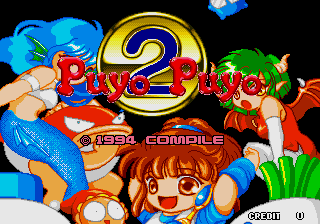
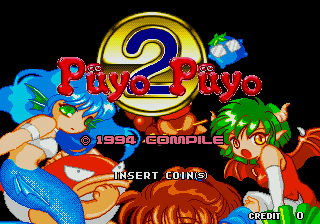
Title: the bouncing handakuten puyos are back, over the u
The three handakuten circles of ぷよぷよ (frames of a small puyo that
falls in and wobbles) had been pointed at empty tiles. Their original
tiles are now copied after the letters and the circles land over the u
of each "Pu" ("Püyo"), as suggested by thomasbender.

New CRCs: pp2e-17241.ic32 8e025713, pp2e-17240.ic31 38eb7703.

Claude-Session: https://claude.ai/code/session_01MEgow1uRCv8pxMErKhmoHZ

diff --git a/tools/logo.py b/tools/logo.py
@@ -8,7 +8,10 @@ tiles are stream TILES (VRAM tile 0x4e0 on).
 
 ぷ becomes "Pu" and よ "yo" (assets/gfx/logo_puyo.png, 112 x 48: the logo of
 assets/puyopuyo_logo.jpg in the title's palette): each a 56 x 48 block of four sprites,
-84 tiles from 0x4e0. The circles, 通 and its sparkles point to empty tiles."""
+84 tiles from 0x4e0. The three handakuten circles (one 3x3 sprite each, frames of a
+bouncing puyo the game swaps as it animates them) keep their original tiles, copied after
+the letters, and now bounce over the u of each "Pu"; 通 and its sparkles point to empty
+tiles.""" 
 import os, struct
 import gfx, png
 
@@ -16,6 +19,10 @@ TABLES = (0x2a802, 0x2aa3e)
 TILES = 0xb7511
 FIRST = 0x4e0
 GROUPS = 9                      # ぷ, よ, 3 circles, 通, 3 sparkles
+CIRCLES = (2, 3, 4)             # their groups
+CIRCLE_TILES = 0x45             # their 3 x 9 tiles in the original stream
+CIRCLE_AT = 0x60                # and in the new one
+CIRCLE_SHIFT = 30               # x added to the circles: over the u
 EMPTY = 0xc0                    # 16 empty tiles from here (stream tile numbers; the stream has 0xd9)
 # a 56 x 48 half: 4x3 + 3x3 tiles on top, the same below
 LAYOUT = ((0, 0, 4, 3), (0, 32, 3, 3), (24, 0, 4, 3), (24, 32, 3, 3))
@@ -36,6 +43,7 @@ def read_groups(prog, at):
 
 def apply(prog, streams):
     img = png.read(os.path.join(HERE, '..', 'assets', 'gfx', 'logo_puyo.png'))
+    original = streams.original(TILES)
     tiles = streams.get(TILES)
     n_tiles = len(tiles) // gfx.TILE
     for t in range(n_tiles):
@@ -52,7 +60,9 @@ def apply(prog, streams):
                     x0, y0 = half * 56 + x + 8 * c, y + 8 * r
                     gfx.tile_put(tiles, next_tile, [row[x0:x0 + 8] for row in img[y0:y0 + 8]])
                     next_tile += 1
-    assert next_tile <= EMPTY
+    assert next_tile <= CIRCLE_AT and CIRCLE_AT + 27 <= EMPTY
+    tiles[CIRCLE_AT * gfx.TILE:(CIRCLE_AT + 27) * gfx.TILE] = \
+        original[CIRCLE_TILES * gfx.TILE:(CIRCLE_TILES + 27) * gfx.TILE]
     for table in TABLES:
         groups = read_groups(prog, table)
         for g, (at, n) in enumerate(groups):
@@ -65,6 +75,13 @@ def apply(prog, streams):
                     size = (w - 1) << 2 | (h - 1)
                     prog[e:e + 8] = struct.pack('>HBBHH', y, size, low,
                                                 (attr & 0xf800) | (FIRST + starts[g][k]), x + SHIFT)
+            elif g in CIRCLES:
+                e = at + 2 + 4
+                attr = prog[e] << 8 | prog[e + 1]
+                assert n == 1 and (attr & 0x7ff) - FIRST == CIRCLE_TILES + 9 * (g - CIRCLES[0])
+                prog[e:e + 2] = struct.pack('>H', (attr & 0xf800) | (FIRST + CIRCLE_AT + 9 * (g - CIRCLES[0])))
+                x = prog[e + 2] << 8 | prog[e + 3]
+                prog[e + 2:e + 4] = struct.pack('>H', (x + CIRCLE_SHIFT) & 0xffff)
             else:
                 for k in range(n):
                     e = at + 2 + 8 * k + 4

diff --git a/make_puyopuy2e.py b/make_puyopuy2e.py
@@ -12,7 +12,7 @@ import romset, build
 
 OUT_NAMES = ('pp2e-17241.ic32', 'pp2e-17240.ic31')
 # the CRCs the puyopuy2e entry of mame2003-plus expects
-EXPECTED = {'pp2e-17241.ic32': 0x0d9ad8af, 'pp2e-17240.ic31': 0x3a08b15e, 'epr-17239.ic4': 0x020ff6ef}
+EXPECTED = {'pp2e-17241.ic32': 0x8e025713, 'pp2e-17240.ic31': 0x38eb7703, 'epr-17239.ic4': 0x020ff6ef}
 
 
 def main():

diff --git a/README.md b/README.md
@@ -62,7 +62,7 @@ Hey dude! Help me out for a couple of :beers: or a :coffee:!<br/>
 | Character profiles before each match: 33 characters, 58 pages | English, new 8x16 text engine and font (all pages below) |
 | Attract mode tutorial pages (15) and their titles | English |
 | JOINING IN tutorial page (linked cabinets only): 乱入するの？ / はい / いいえ | JOIN IN? / YES / NO |
-| Title logo ぷよぷよ通 | redrawn as "Puyo Puyo", the gold 2 stays |
+| Title logo ぷよぷよ通 | redrawn as "Puyo Puyo", the gold 2 stays; the bouncing handakuten puyos land over the u ("Püyo") |
 | Entry screen: 参加者募集中, 参加, ひとりでぷよぷよ ... | PLAYERS WANTED!, JOIN!, 1P/2P PUYO PUYO (centred) |
 | Entry screen: 2Pのスタートボタンを押してね over the rabbit still waiting | PUSH 2P START! (and 1P) |
 | Tower: 相手をえらんでね, ここにいる | PICK YOUR RIVAL, YOU ARE HERE |
@@ -89,7 +89,8 @@ Known limits:
   instances of the core joined by a high-level stand-in for the board (a local test
   harness, not part of the driver): entry screen, join prompts, four-player match,
   results and the attract pages shown only when linked. Thanks to thomasbender for the
-  four-player screenshots that showed what was left.
+  four-player screenshots that showed what was left, and for the idea of bringing back the
+  bouncing puyos of the title.
 - The 3P PUYO PUYO line of a linked game sits a few pixels right of centre: its number
   block is wider and the PUYO PUYO block is shared by all four.
 
@@ -182,8 +183,8 @@ Output, the files of `puyopuy2e.zip`:
 
 | File | Size | CRC32 | SHA1 | From |
 |---|---|---|---|---|
-| pp2e-17241.ic32 | 524288 | 0d9ad8af | b475d6a3a81efb3d4adf298e17ec56f49ef84c31 | epr-17241.ic32, changed |
-| pp2e-17240.ic31 | 524288 | 3a08b15e | 8cef983b580d1643834488d16489449b28ed7cdf | epr-17240.ic31, changed |
+| pp2e-17241.ic32 | 524288 | 8e025713 | 74b7893695c8f4942ca0fd6a6742618c8414f261 | epr-17241.ic32, changed |
+| pp2e-17240.ic31 | 524288 | 38eb7703 | 4aa0800973485d1637329c8915a50e23e64df101 | epr-17240.ic31, changed |
 | epr-17239.ic4 | 524288 | 020ff6ef | 6095b8277b47a6fd7a9721f15a70ae5bf6be9b1a | copied |
 
 These names and CRCs are the ones the `puyopuy2e` driver entry of mame2003-plus expects
